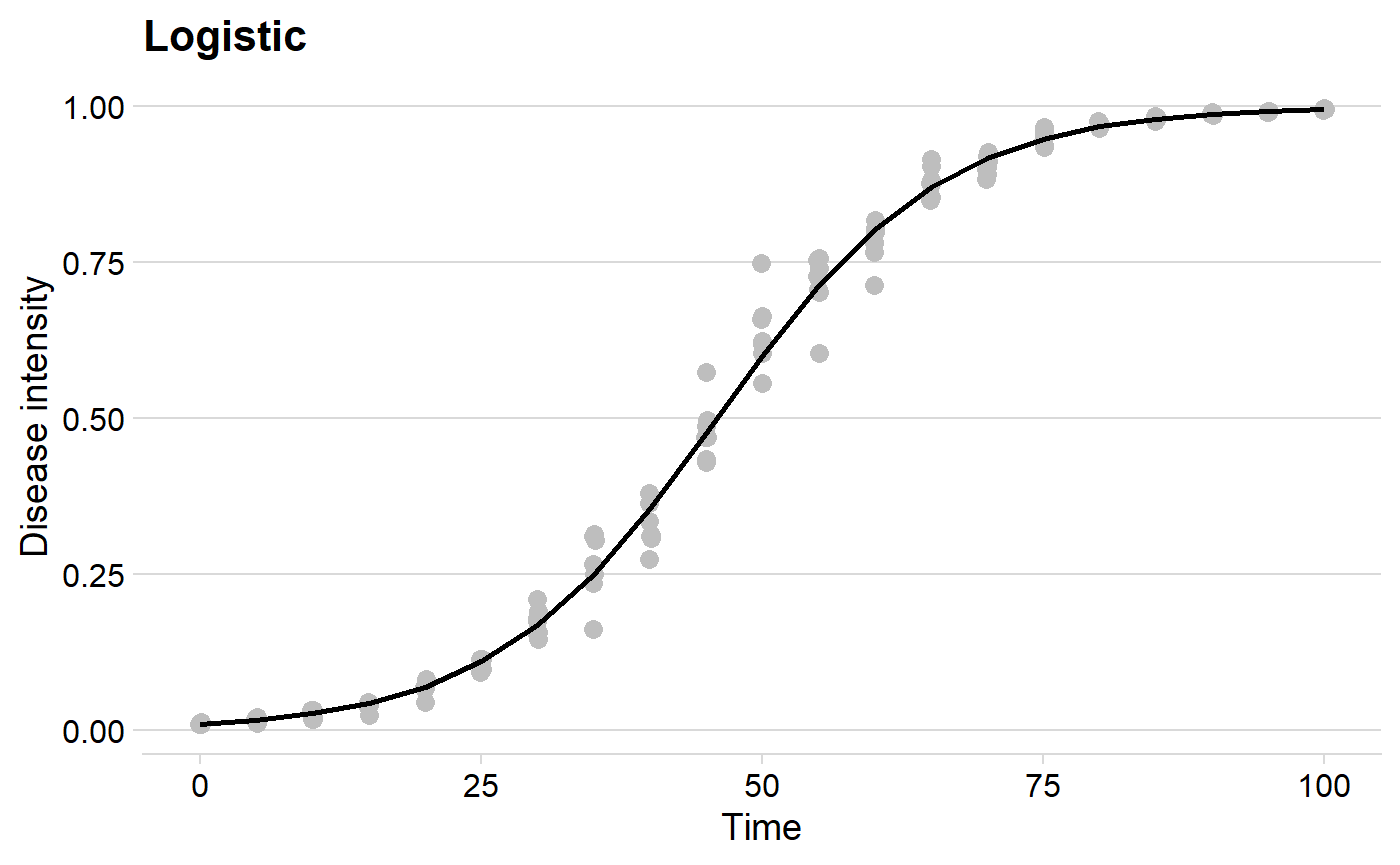
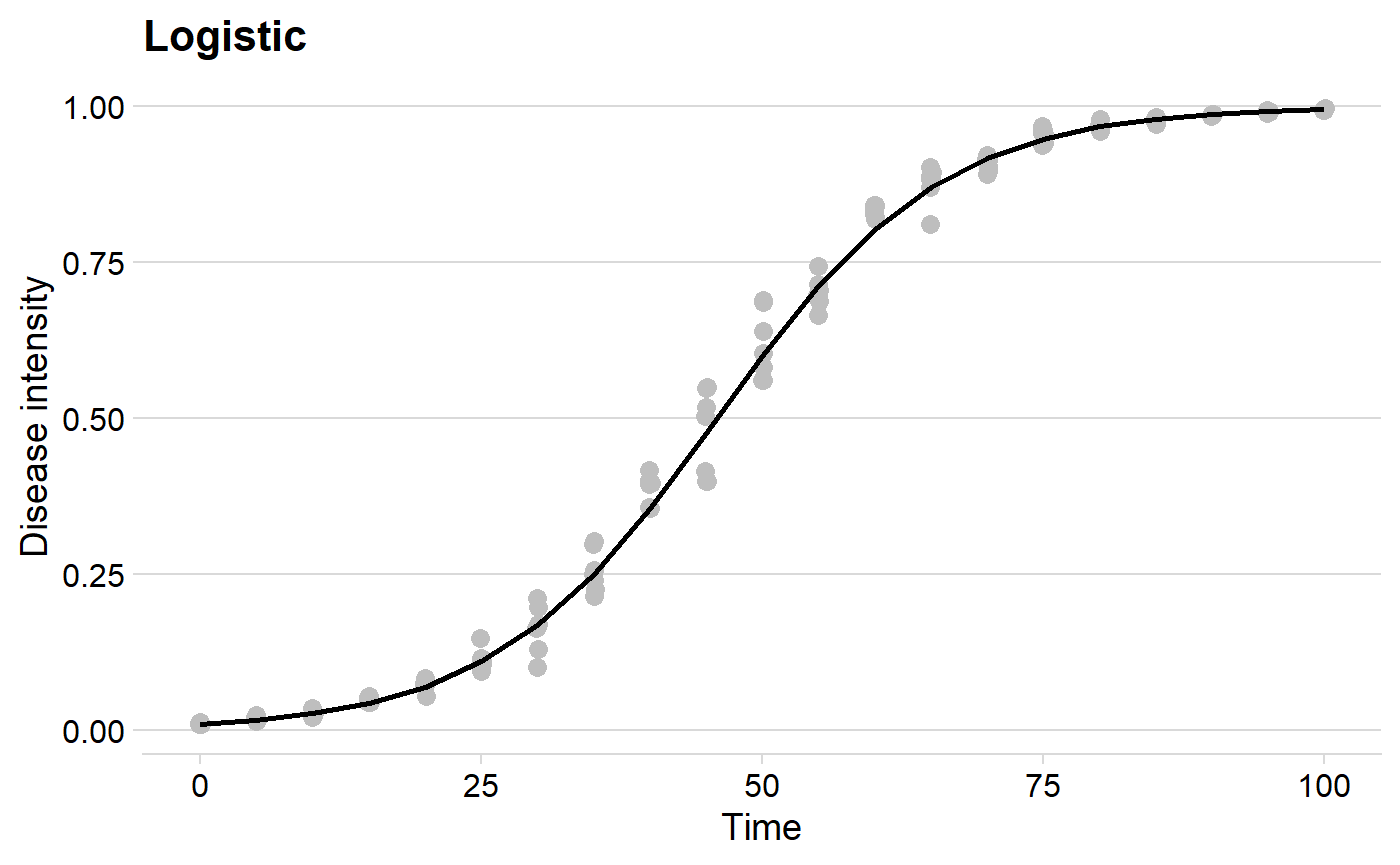
commit

diff --git a/docs/articles/simulation.html b/docs/articles/simulation.html
@@ -135,12 +135,12 @@
 )
 <span class="fu"><a href="https://rdrr.io/r/utils/head.html">head</a></span>(<span class="no">exp_model</span>)</pre></body></html></div>
 <pre><code>##   replicates time          y   random_y
-## 1          1    0 0.01000000 0.01008610
-## 2          1    5 0.01252459 0.01560459
-## 3          1   10 0.01568619 0.01758604
-## 4          1   15 0.01964549 0.01970602
-## 5          1   20 0.02460372 0.01702968
-## 6          1   25 0.03081292 0.03871634</code></pre>
+## 1          1    0 0.01000000 0.01145561
+## 2          1    5 0.01252459 0.01106026
+## 3          1   10 0.01568619 0.01560722
+## 4          1   15 0.01964549 0.02423163
+## 5          1   20 0.02460372 0.02580470
+## 6          1   25 0.03081292 0.02552107</code></pre>
 <p>The function returns a <code>data.frame</code> object with four columns. <code>replicates</code> indicate each respective replicate, in <code>time</code> we have the time steps, <code>y</code> contains the simulated values of disease intensity, and <code>random_y</code> contains values of disease intensity after inserting a variation.</p>
 <p>Use the <a href="https://ggplot2.tidyverse.org/"><code>ggplot2</code></a> package to build impressive graphics!</p>
 <div class="sourceCode" id="cb4"><html><body><pre class="r"><span class="no">exp_plot</span> <span class="kw">=</span> <span class="no">exp_model</span> <span class="kw">%&gt;%</span>
@@ -155,7 +155,7 @@
     <span class="kw">x</span> <span class="kw">=</span> <span class="st">"Time"</span>
   )
 <span class="no">exp_plot</span></pre></body></html></div>
-<pre><code>## Warning: Removed 4 rows containing missing values (geom_point).</code></pre>
+<pre><code>## Warning: Removed 1 rows containing missing values (geom_point).</code></pre>
 <p><img src="simulation_files/figure-html/unnamed-chunk-3-1.png" width="700"></p>
 </div>
 <div id="the-monomolecular-model" class="section level3">
@@ -173,11 +173,11 @@
 <span class="fu"><a href="https://rdrr.io/r/utils/head.html">head</a></span>(<span class="no">mono_model</span>)</pre></body></html></div>
 <pre><code>##   replicates time         y  random_y
 ## 1          1    0 0.0100000 0.0100000
-## 2          1    5 0.2289861 0.2486455
-## 3          1   10 0.3995322 0.3799381
-## 4          1   15 0.5323535 0.5762316
-## 5          1   20 0.6357949 0.7141616
-## 6          1   25 0.7163551 0.7096352</code></pre>
+## 2          1    5 0.2289861 0.2505278
+## 3          1   10 0.3995322 0.4339245
+## 4          1   15 0.5323535 0.5065087
+## 5          1   20 0.6357949 0.6461993
+## 6          1   25 0.7163551 0.7400425</code></pre>
 <div class="sourceCode" id="cb8"><html><body><pre class="r"><span class="no">mono_plot</span> <span class="kw">=</span> <span class="no">mono_model</span> <span class="kw">%&gt;%</span>
   <span class="fu"><a href="https://ggplot2.tidyverse.org/reference/ggplot.html">ggplot</a></span>(<span class="fu"><a href="https://ggplot2.tidyverse.org/reference/aes.html">aes</a></span>(<span class="no">time</span>, <span class="no">y</span>)) +
   <span class="fu"><a href="https://ggplot2.tidyverse.org/reference/geom_jitter.html">geom_jitter</a></span>(<span class="fu"><a href="https://ggplot2.tidyverse.org/reference/aes.html">aes</a></span>(<span class="no">time</span>, <span class="no">random_y</span>), <span class="kw">size</span> <span class="kw">=</span> <span class="fl">3</span>, <span class="kw">color</span> <span class="kw">=</span> <span class="st">"gray"</span>, <span class="kw">width</span> <span class="kw">=</span> <span class="fl">.1</span>) +
@@ -205,11 +205,11 @@
 <span class="fu"><a href="https://rdrr.io/r/utils/head.html">head</a></span>(<span class="no">logist_model</span>)</pre></body></html></div>
 <pre><code>##   replicates time          y   random_y
 ## 1          1    0 0.01000000 0.01000000
-## 2          1    5 0.01638216 0.01804241
-## 3          1   10 0.02672677 0.01694637
-## 4          1   15 0.04331509 0.04432527
-## 5          1   20 0.06946352 0.06867639
-## 6          1   25 0.10958806 0.11342764</code></pre>
+## 2          1    5 0.01638216 0.01429707
+## 3          1   10 0.02672677 0.03562845
+## 4          1   15 0.04331509 0.04492811
+## 5          1   20 0.06946352 0.07244110
+## 6          1   25 0.10958806 0.11107876</code></pre>
 <div class="sourceCode" id="cb11"><html><body><pre class="r"><span class="no">logist_plot</span> <span class="kw">=</span> <span class="no">logist_model</span> <span class="kw">%&gt;%</span>
   <span class="fu"><a href="https://ggplot2.tidyverse.org/reference/ggplot.html">ggplot</a></span>(<span class="fu"><a href="https://ggplot2.tidyverse.org/reference/aes.html">aes</a></span>(<span class="no">time</span>, <span class="no">y</span>)) +
   <span class="fu"><a href="https://ggplot2.tidyverse.org/reference/geom_jitter.html">geom_jitter</a></span>(<span class="fu"><a href="https://ggplot2.tidyverse.org/reference/aes.html">aes</a></span>(<span class="no">time</span>, <span class="no">random_y</span>), <span class="kw">size</span> <span class="kw">=</span> <span class="fl">3</span>,<span class="kw">color</span> <span class="kw">=</span> <span class="st">"gray"</span>, <span class="kw">width</span> <span class="kw">=</span> <span class="fl">.1</span>) +
@@ -237,11 +237,11 @@
 <span class="fu"><a href="https://rdrr.io/r/utils/head.html">head</a></span>(<span class="no">gomp_model</span>)</pre></body></html></div>
 <pre><code>##   replicates time          y   random_y
 ## 1          1    0 0.01000000 0.01000000
-## 2          1    5 0.03896283 0.04591022
-## 3          1   10 0.10158896 0.09146093
-## 4          1   15 0.19958740 0.20133001
-## 5          1   20 0.32122825 0.29422728
-## 6          1   25 0.44922018 0.43846458</code></pre>
+## 2          1    5 0.03896283 0.04207428
+## 3          1   10 0.10158896 0.09524777
+## 4          1   15 0.19958740 0.20270354
+## 5          1   20 0.32122825 0.31945419
+## 6          1   25 0.44922018 0.44161333</code></pre>
 <div class="sourceCode" id="cb14"><html><body><pre class="r"><span class="no">gomp_plot</span> <span class="kw">=</span> <span class="no">gomp_model</span> <span class="kw">%&gt;%</span>
   <span class="fu"><a href="https://ggplot2.tidyverse.org/reference/ggplot.html">ggplot</a></span>(<span class="fu"><a href="https://ggplot2.tidyverse.org/reference/aes.html">aes</a></span>(<span class="no">time</span>, <span class="no">y</span>)) +
   <span class="fu"><a href="https://ggplot2.tidyverse.org/reference/geom_jitter.html">geom_jitter</a></span>(<span class="fu"><a href="https://ggplot2.tidyverse.org/reference/aes.html">aes</a></span>(<span class="no">time</span>, <span class="no">random_y</span>), <span class="kw">size</span> <span class="kw">=</span> <span class="fl">3</span>,<span class="kw">color</span> <span class="kw">=</span> <span class="st">"gray"</span>, <span class="kw">width</span> <span class="kw">=</span> <span class="fl">.1</span>) +
@@ -264,7 +264,7 @@
           <span class="no">mono_plot</span>,
           <span class="no">logist_plot</span>,
           <span class="no">gomp_plot</span>)</pre></body></html></div>
-<pre><code>## Warning: Removed 4 rows containing missing values (geom_point).</code></pre>
+<pre><code>## Warning: Removed 1 rows containing missing values (geom_point).</code></pre>
 <p><img src="simulation_files/figure-html/unnamed-chunk-10-1.png" width="768"></p>
 </div>
 </div>

diff --git a/docs/index.html b/docs/index.html
@@ -90,8 +90,10 @@
       </header><div class="row">
   <div class="contents col-md-9">
 
-<div id="epifitter-an-r-package-for-the-analysis-and-simulation-of-plant-disease-progress-curves-" class="section level1">
-
+<div id="epifitter-analysis-and-simulation-of-plant-disease-progress-curves-" class="section level1">
+<div class="page-header"><h1 class="hasAnchor">
+<a href="#epifitter-analysis-and-simulation-of-plant-disease-progress-curves-" class="anchor"></a><em>epifitter</em>: Analysis and simulation of plant disease progress curves <img width="200px" align="right" src="reference/figures/logo.png">
+</h1></div>
 <div id="introduction" class="section level2">
 <h2 class="hasAnchor">
 <a href="#introduction" class="anchor"></a>Introduction</h2>

diff --git a/README.md b/README.md
@@ -1,4 +1,4 @@
-# *epifitter*: an R package for the analysis and simulation of plant disease progress curves <img width = 200px align = right src="man/figures/logo.png" />
+# *epifitter*: Analysis and simulation of plant disease progress curves <img width = 200px align = right src="man/figures/logo.png" />
 
 ## Introduction
 
